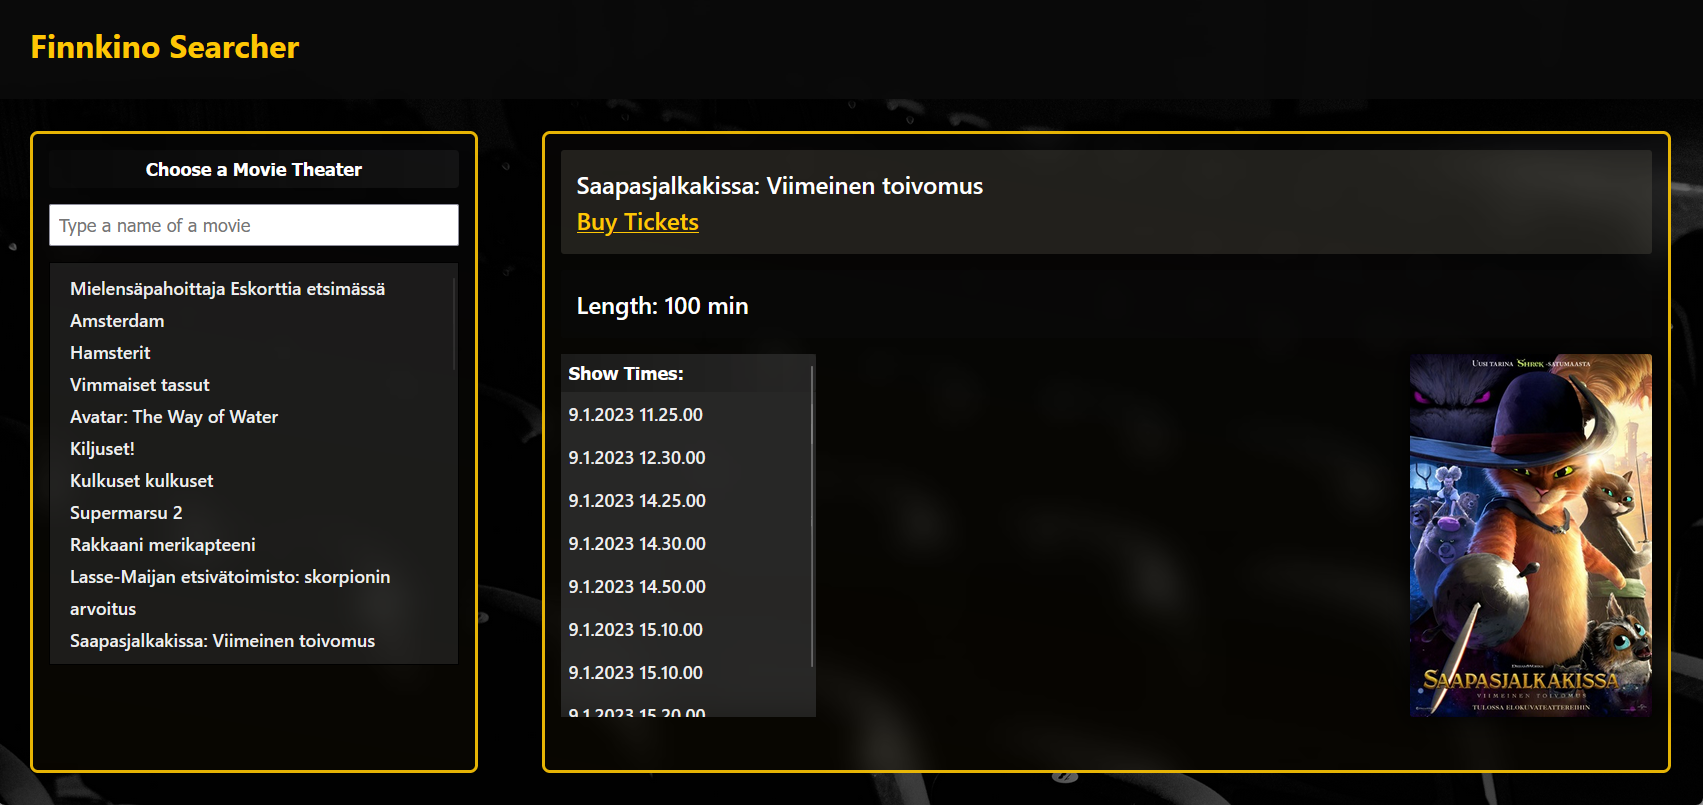
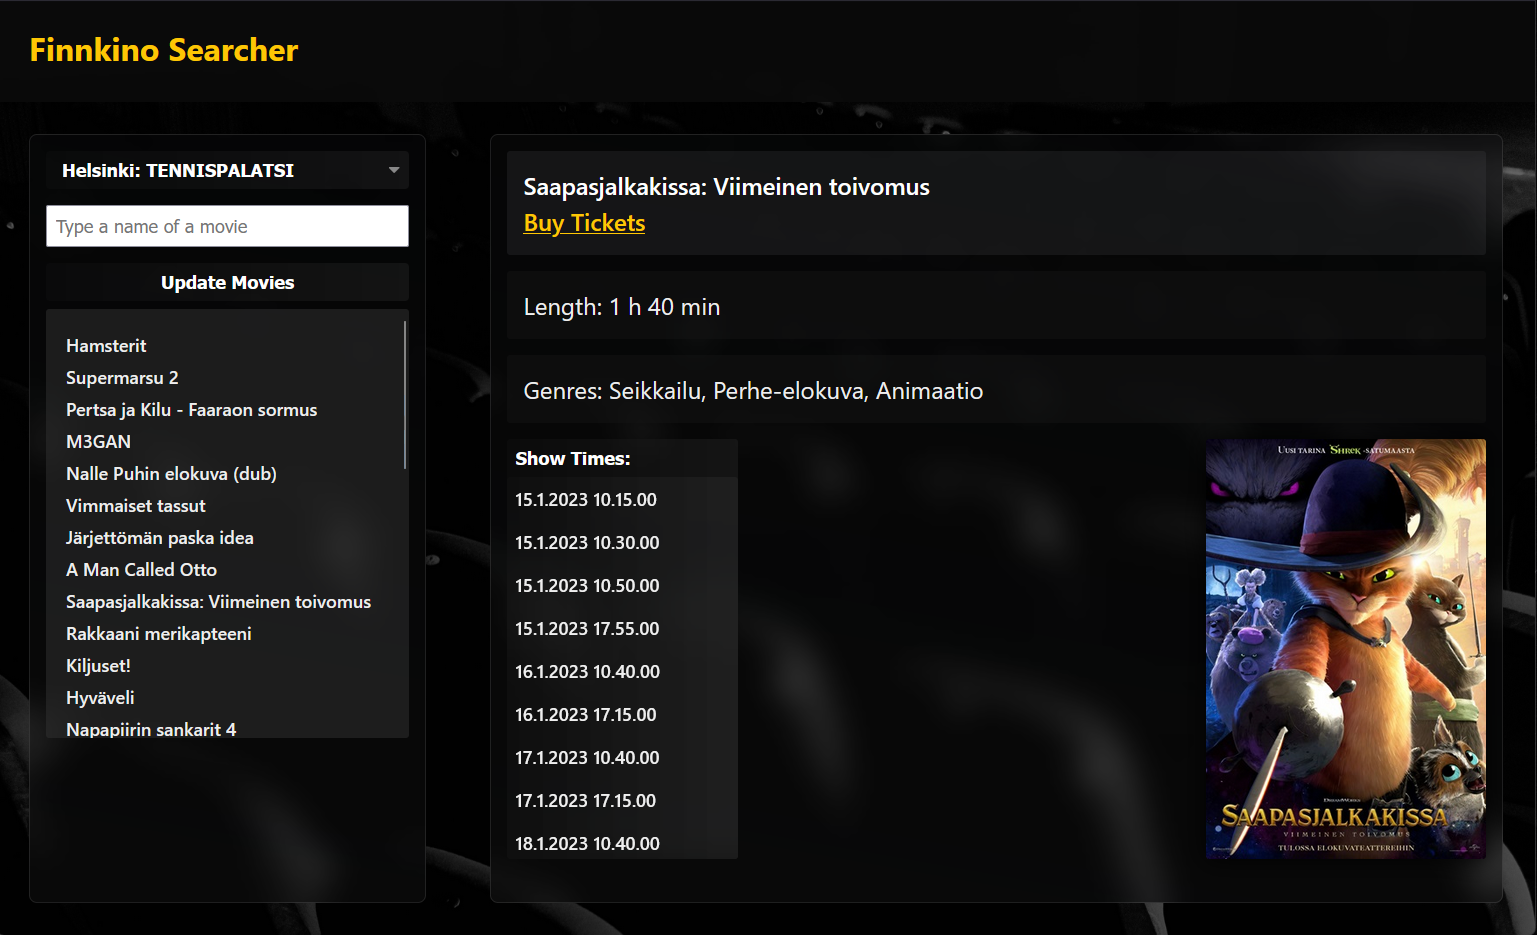
Style improvements targeting a more professional look

diff --git a/src/components/theaterList/TheaterList.jsx b/src/components/theaterList/TheaterList.jsx
@@ -1,8 +1,8 @@
 import React from "react"
 import convert from "xml-js"
-/*  import Dropdown from 'react-bootstrap/Dropdown';    Consider getting rid of this dependency  */
 import TheaterListItem from "./TheaterListItem"
 import "./theaterList.css"
+import 'font-awesome/css/font-awesome.min.css';
 
 const TheaterList = ({ selectedTheater, setSelectedTheater }) => {
     const [theaters, setTheaters] = React.useState([])
@@ -46,27 +46,10 @@ const TheaterList = ({ selectedTheater, setSelectedTheater }) => {
 
     
     // When the list is opened
-    if(showTheater && selectedTheater !== null) {
+    if(showTheater) {
         return(
             <div>
-            <button onClick={getTheaterData} className="theaterButton">{selectedTheater.Name._text}</button>
-                <div className="TheaterList shadow-drop-2-center">
-                    {theaterObj.map((theater) => (
-                    <TheaterListItem
-                    key={theater.ID._text}
-                    title={theater.Name._text}
-                    selected={selectedTheater?.ID === theater.ID}
-                    onClick={() => onClickHandler(theater)}
-                    />
-                ))}
-                </div>
-            </div>
-        )
-    }
-    else if(showTheater) {
-        return(
-            <div>
-            <button onClick={getTheaterData} className="theaterButton">Choose a Movie Theater</button>
+            <button onClick={getTheaterData} className="theaterButton">{selectedTheater !== null ? selectedTheater.Name._text : "Choose a Movie Theater"}<i className="fa fa-caret-down"></i></button>
                 <div className="TheaterList shadow-drop-2-center">
                     {theaterObj.map((theater) => (
                     <TheaterListItem
@@ -82,19 +65,11 @@ const TheaterList = ({ selectedTheater, setSelectedTheater }) => {
     }
 
     // When the list is closed
-    if (selectedTheater !== null) {
-        return(
-            <div>
-                <button onClick={getTheaterData} className="theaterButton">{selectedTheater.Name._text}</button>
-            </div>
-        )
-    } else {
     return(
         <div>
-            <button onClick={getTheaterData} className="theaterButton">Choose a Movie Theater</button>
+            <button onClick={getTheaterData} className="theaterButton">{selectedTheater !== null ? selectedTheater.Name._text : "Choose a Movie Theater"}<i className="fa fa-caret-down"></i></button>
         </div>
     )
-    }
 }
 
 export default TheaterList

diff --git a/src/components/theaterList/theaterList.css b/src/components/theaterList/theaterList.css
@@ -5,7 +5,7 @@
     align-items: flex-start;
     padding: 1rem;
     line-height: 2rem;
-    border: 1px solid black;
+    border-radius: 0.2rem;
     height: 20vh;
     overflow-y: auto;
     margin-top: 0.5rem;
@@ -22,12 +22,11 @@
 .theaterButton {
 	display: flex;
 	font-size: large;
-	padding: 0.5rem;
+	padding: 0.5rem 1rem;
 	color: white;
 	font-weight: 600;
 	width: 100%;
 	align-items: center;
-	justify-content: center;
 	background: rgb(25,25,25);
 	background: linear-gradient(90deg, rgba(25,25,25,0.2) 0%, rgba(74,74,74,0.2) 100%); 
 	outline: none;
@@ -35,6 +34,7 @@
 	border-style: none;
 	overflow: hidden;
 	position: relative;
+    cursor: pointer;
 }
 
 .theaterButton:hover {
@@ -43,6 +43,13 @@
     transition: 0.3s;
 }
 
+.theaterButton i {
+    opacity: 0.5;
+    position: absolute;
+    right: 10px;
+    top: 50%;
+    transform: translateY(-50%);
+}    
 
 /**
  * ----------------------------------------

diff --git a/src/components/movieList/movieList.css b/src/components/movieList/movieList.css
@@ -4,7 +4,7 @@
     flex-direction: column;
     align-items: flex-start;
     padding: 20px;
-    border: 1px solid black;
+    border-radius: 0.2rem;
     height: 46vh;
     overflow-y: auto;
     margin-top: 0.5rem;
@@ -34,13 +34,19 @@
 	width: 100%;
 	align-items: center;
 	justify-content: center;
-	background: rgb(25,25,25);
 	background: linear-gradient(90deg, rgba(25,25,25,0.2) 0%, rgba(74,74,74,0.2) 100%); 
 	outline: none;
 	border-radius: 4px;
 	border-style: none;
 	overflow: hidden;
 	position: relative;
+	cursor: pointer;
+}
+
+.movieButton:hover {
+	color: #FEC704;
+	animation: ease-out;
+    transition: 0.3s;
 }
 
 .shadow-drop-2-center {

diff --git a/src/containers/leftSearchContainer/leftSearchContainer.css b/src/containers/leftSearchContainer/leftSearchContainer.css
@@ -1,6 +1,6 @@
 
 .searchContainer {
-    background-image: linear-gradient(10deg, rgba(19, 13, 0, 0.4), rgba(19, 21, 24, 0.2));
+    background-image: linear-gradient(10deg, rgba(20, 20, 20, 0.4), rgba(19, 21, 24, 0.2));
     backdrop-filter: blur(1rem);
     border-radius: 0.5rem;
     width: calc(30vw - 4rem);
@@ -8,8 +8,8 @@
     padding: 1rem;
     margin: 2rem;
     border-style: solid;
-    border-width: 0.2rem;
-    border-color: rgba(254, 199, 4, 0.9);
+    border-width: 0.1rem;
+    border-color: rgba(255, 255, 255, 0.1);
   }
   
   

diff --git a/src/containers/rightInfoContainer/rightInfoContainer.css b/src/containers/rightInfoContainer/rightInfoContainer.css
@@ -1,6 +1,6 @@
 
 .infoContainer {
-  background-image: linear-gradient(10deg, rgba(19, 13, 0, 0.4), rgba(19, 21, 24, 0.2));
+  background-image: linear-gradient(10deg, rgba(20, 20, 20, 0.4), rgba(19, 21, 24, 0.2));
   backdrop-filter: blur(1rem);
     border-radius: 0.5rem;
     width: calc(70vw - 4rem);
@@ -8,8 +8,8 @@
     padding: 1rem;
     margin: 2rem;
     border-style: solid;
-    border-width: 0.2rem;
-    border-color: rgba(254, 199, 4, 0.9);
+    border-width: 0.1rem;
+    border-color: rgba(255, 255, 255, 0.1);
   }
   
 h4 {

diff --git a/src/components/info/showtimeListItem.css b/src/components/info/showtimeListItem.css
@@ -22,13 +22,13 @@
 	width: 100%;
 	align-items: center;
 	justify-content: left;
-	background: rgb(25,25,25);
-	background: linear-gradient(90deg, rgba(25,25,25,0.2) 0%, rgba(74,74,74,0.2) 100%); 
+	background: none;
 	outline: none;
 	border-radius: 4px;
 	border-style: none;
 	overflow: hidden;
 	position: relative;
+	cursor: pointer;
 }
 
 .timeBtn:hover {

diff --git a/src/components/info/showtimeList.css b/src/components/info/showtimeList.css
@@ -1,5 +1,4 @@
 .showtimeList {
-    background-color: rgba(50, 50, 50, 0.5);
     backdrop-filter: blur(1rem);
     display: flex;
     flex-direction: column;
@@ -7,4 +6,6 @@
     width: 15vw;
     height: 45vh;
     overflow-y: auto;
+    border-radius: 0.2rem;
+	background: linear-gradient(90deg, rgba(25,25,25,0.2) 0%, rgba(74,74,74,0.2) 100%); 
 }

diff --git a/src/components/movieList/MovieList.jsx b/src/components/movieList/MovieList.jsx
@@ -36,7 +36,6 @@ const MovieList = ({selectedTheater, selectedMovie, setSelectedMovie}) => {
     };
   
     function editUrl() {
-      console.log(url);
       if (selectedTheater !== null && selectedTheater !== undefined) {
         setUrl(`https://www.finnkino.fi/xml/Schedule/?area=${selectedTheater.ID._text}`);
       }

diff --git a/src/components/info/eventTitle.css b/src/components/info/eventTitle.css
@@ -1,6 +1,6 @@
 
 .title {
-    background-color: rgba(100, 95, 82, 0.2);
+    background-color: rgba(78, 80, 87, 0.2);
     border-radius: 0.2rem;
     font-size: x-large;
     font-weight: 600;
